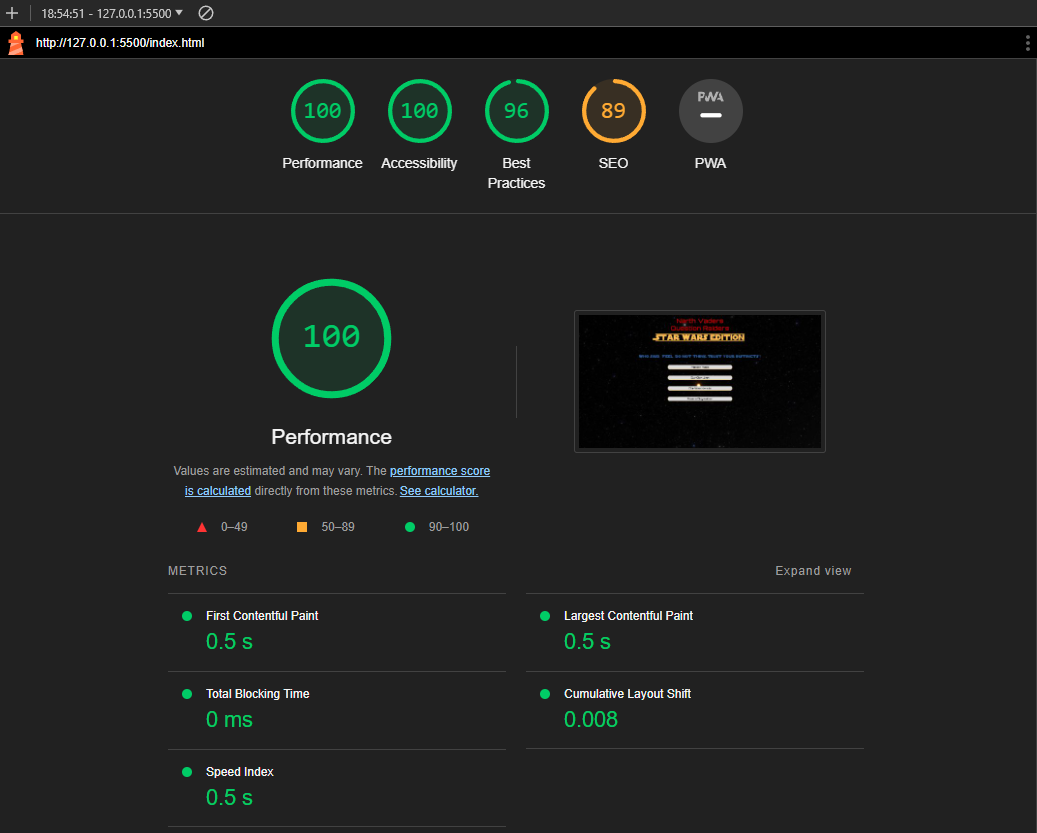
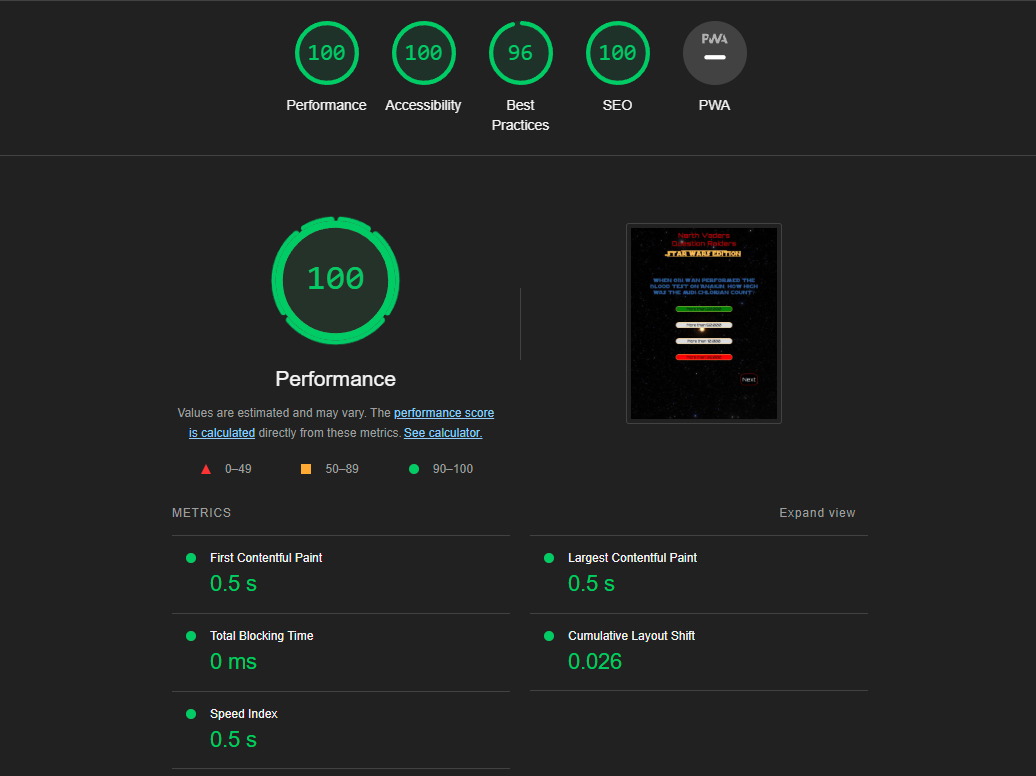
Add meta description

diff --git a/index.html b/index.html
@@ -4,6 +4,7 @@
 <head>
     <meta charset="UTF-8">
     <meta name="viewport" content="width=device-width, initial-scale=1.0">
+    <meta name="description" content="A fun quiz game for all star wars fans">
     <link rel="stylesheet" href="./assets/css/style.css">
     <link href="https://cdn.jsdelivr.net/npm/bootstrap@5.3.3/dist/css/bootstrap.min.css" rel="stylesheet"
         integrity="sha384-QWTKZyjpPEjISv5WaRU9OFeRpok6YctnYmDr5pNlyT2bRjXh0JMhjY6hW+ALEwIH" crossorigin="anonymous">

diff --git a/readme.md b/readme.md
@@ -235,8 +235,6 @@ To help inspire the user and bring them into the Star Wars universe for their ex
     * Version control.
  * [Google Fonts](https://fonts.google.com/)
     * Import main fonts the website.
-* [Font Awesome](https://www.cdnfonts.com/)
-    * Used for importing fonts.
 * [Bootstrap v5.3](https://getbootstrap.com/)
     * Used for its helpful responsive layouts and components such as the results modal.
 
@@ -270,10 +268,13 @@ The W3C Markup Validator and W3C CSS Validator services were used to validate ev
 
 * The website was tested on Google Chrome & Microsoft Edge.
 * The website was viewed on a desktop computer and Moto G Power mobile phone.
-* A large amount of testing was done to ensure links between pages are working correctly on all pages.
+* A large amount of manual testing was done to ensure all buttons are working correctly.
+* A large amount of manual testing was done to ensure that the logic behind the game worked and the user experience is fulfilled.
+* A large amount of manual testing was done to ensure that there were no bugs hindering the game and any progression.
 * Family and friends were asked to review the website for a better understanding of the user experience.
 * Dev Tools was used to test how the site looks on various screen sizes.
 * Dev Tools Lighthouse was use to test the performance accessibility, best prectices and SEO of each page.
+* JS Lint was used to ensure there are no major issues with the script.
 
 ### Lighthouse Report
 
@@ -282,43 +283,14 @@ The W3C Markup Validator and W3C CSS Validator services were used to validate ev
 <summary>Home Page
 </summary>
 
-![Home Page lighthouse report](/assets/images/index.html-lighthouse-test.png)
+![Starting Screen Lighthouse Report (index.html)](/assets/img/star-wars-quiz-start-screen-lighthouse.png)
 </details>
+
 <details>
-<summary>Modern Gallery
+<summary>Home Page
 </summary>
 
-![Modern gallery lighthouse report](/assets/images/modern-gallery-lighthouse-test.png)
-</details>
-<details>
-<summary>Traditional Gallery
-</summary>
-
-![Traditional gallery lighthouse report](/assets/images/traditional-gallery.html-lighthouse.png)
-</details>
-<details>
-<summary>Thing To Consider Page
-</summary>
-
-![Consider Page lighthouse report](/assets/images/consider.html-lighthouse-test.png)
-</details>
-<details>
-<summary>About Page
-</summary>
-
-![About lighthouse report](/assets/images/about.html-lighthouse-test.png)
-</details>
-<details>
-<summary>Contact Page
-</summary>
-
-![Contact lighthouse report](/assets/images/contact.html-lighthouse-test.png)
-</details>
-<details>
-<summary>Modal Pop up Page
-</summary>
-
-![Modal lighthouse report](/assets/images/modal-lighthouse-test.png)
+![Question Screen Lighthouse Report (index.html)](/assets/img/star-wars-quiz-questions-lighthouse.png)
 </details>
 
 #### Mobile analysis
@@ -326,43 +298,14 @@ The W3C Markup Validator and W3C CSS Validator services were used to validate ev
 <summary>Home Page
 </summary>
 
-![Home Page lighthouse report](/assets/images/index.html-mobile-lighthouse-test..png)
+![Starting Screen Mobile Lighthouse Report (index.html)](/assets/img/sw-quiz-start-mobile-lighthouse.png)
 </details>
+
 <details>
-<summary>Modern Gallery
+<summary>Home Page
 </summary>
 
-![Modern gallery lighthouse report](/assets/images/modern-gallery.html-mobile-lighthouse.png)
-</details>
-<details>
-<summary>Traditional Gallery
-</summary>
-
-![Traditional gallery lighthouse report](/assets/images/traditional-gallery.html-mobile-lighthouse.png)
-</details>
-<details>
-<summary>Thing To Consider Page
-</summary>
-
-![Consider Page lighthouse report](/assets/images/consider.html-mobile-lighthouse-test..png)
-</details>
-<details>
-<summary>About Page
-</summary>
-
-![About lighthouse report](/assets/images/about.html-mobile-lighthouse-test.png)
-</details>
-<details>
-<summary>Contact Page
-</summary>
-
-![Contact lighthouse report](/assets/images/contact.html-mobile-lighthouse-test.png)
-</details>
-<details>
-<summary>Modal Pop up Page
-</summary>
-
-![Modal lighthouse report](/assets/images/modal-mobile-lighthouse-test.png)
+![Question Screen Mobile Lighthouse Report (index.html)](/assets/img/sw-quiz-question-mobile-lighthouse.png)
 </details>
 
 ---
@@ -372,7 +315,7 @@ The W3C Markup Validator and W3C CSS Validator services were used to validate ev
 ### GitHub Pages
 
 GitHub Pages used to deploy live version of the website.
-1. Log in to GitHub and locate [GitHub Repository Hunter Kitchen Design](https://github.com/DarthKoder/Hunter-Kitchen-Designs)
+1. Log in to GitHub and locate [GitHub Repository Hunter Kitchen Design](https://github.com/DarthKoder/Star-Wars-Question-Raider)
 2. At the top of the Repository(not the main navigation) locate "Settings" button on the menu.
 3. Scroll down the Settings page until you locate "GitHub Pages".
 4. Under "Source", click the dropdown menu "None" and select "Main" and click "Save".
@@ -412,8 +355,8 @@ By forking the repository, we make a copy of the original repository on our GitH
 
 ### Media 
 
- * [Pexels](https://www.pexels.com/) free stock photos, royalty free images.
- * [Pixabay](https://pixabay.com/) free stock photos, royalty free images.
+ * [Pexels](https://www.pexels.com/) free stock photos & videos, royalty free images & videos.
+
 ---
 
 ## Acknowledgements
